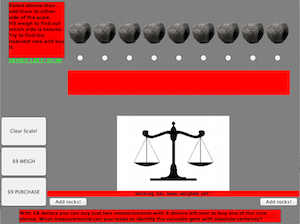
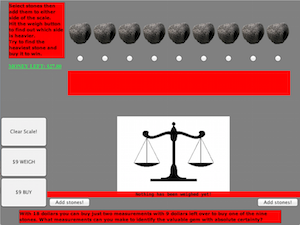
ninestones - making money display more legible

diff --git a/src/Main/Games/ninestones/Interface.java b/src/Main/Games/ninestones/Interface.java
@@ -213,6 +213,7 @@ public class Interface extends GamePanel {
 		// money instructions
 		Map<TextAttribute, Integer> fontAttributes = new HashMap<TextAttribute, Integer>();
 		fontAttributes.put(TextAttribute.UNDERLINE, TextAttribute.UNDERLINE_ON);
+		
 		Font boldUnderline = new Font("Serif", Font.BOLD, 14)
 				.deriveFont(fontAttributes);
 
@@ -222,10 +223,10 @@ public class Interface extends GamePanel {
 		this.tfMoneyTotal.setWrapStyleWord(true);
 		this.tfMoneyTotal.setEditable(false);
 		this.tfMoneyTotal.setBackground(Color.GRAY);
-		this.tfMoneyTotal.setText("MONEY LEFT: "
+		this.tfMoneyTotal.setText("\nMONEY LEFT: "
 				+ DecimalFormat.getCurrencyInstance().format(game.getMoney()));
 		this.tfMoneyTotal.setFont(boldUnderline);
-		this.tfMoneyTotal.setForeground(Color.GREEN);
+		this.tfMoneyTotal.setForeground(new Color(0x18eb50)); // green
 
 		// button panel set up
 		this.buttonPanel = new JPanel();
@@ -258,7 +259,7 @@ public class Interface extends GamePanel {
 				} else {
 					// Handling weighing
 					getGameInstance().deductMoney();
-					tfMoneyTotal.setText("MONEY LEFT: "
+					tfMoneyTotal.setText("\nMONEY LEFT: "
 							+ DecimalFormat.getCurrencyInstance().format(
 									game.getMoney()));
 
@@ -285,7 +286,7 @@ public class Interface extends GamePanel {
 							.setText("Select exactly one stone for purchase!");
 				} else if (z == 1) {
 					getGameInstance().deductMoney();
-					tfMoneyTotal.setText("MONEY LEFT: "
+					tfMoneyTotal.setText("\nMONEY LEFT: "
 							+ DecimalFormat.getCurrencyInstance().format(
 									game.getMoney()));
 					for (int i = 0; i < 9; i++) {
@@ -382,7 +383,7 @@ public class Interface extends GamePanel {
 		this.game.clearScale();
 		this.game.resetMoney();
 		this.scale.resetScale();
-		tfMoneyTotal.setText("MONEY LEFT: "
+		tfMoneyTotal.setText("\nMONEY LEFT: "
 				+ DecimalFormat.getCurrencyInstance().format(game.getMoney()));
 		tpWeightInfo.setText(this.scale.getInfo());
 	}
